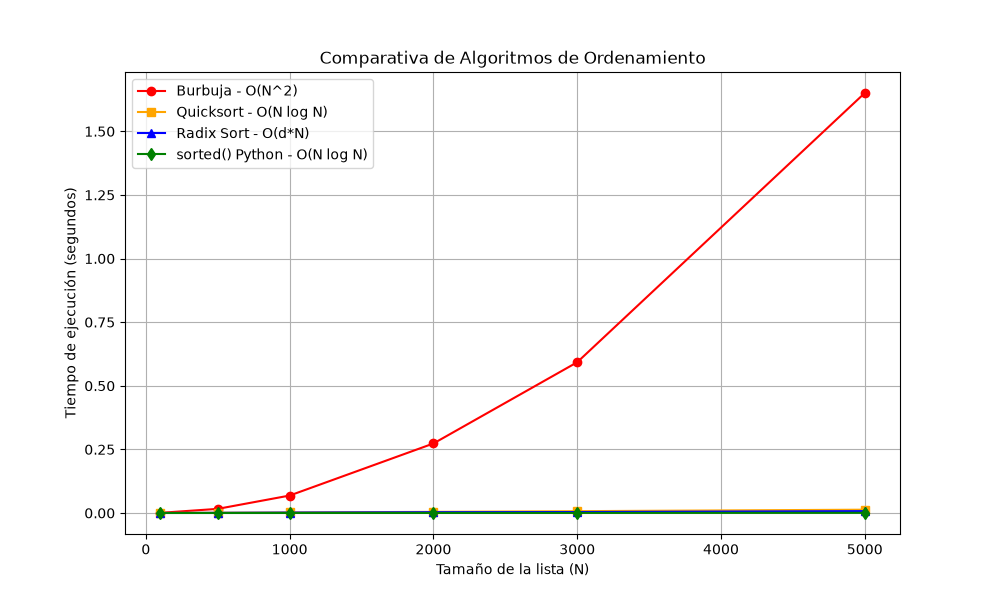
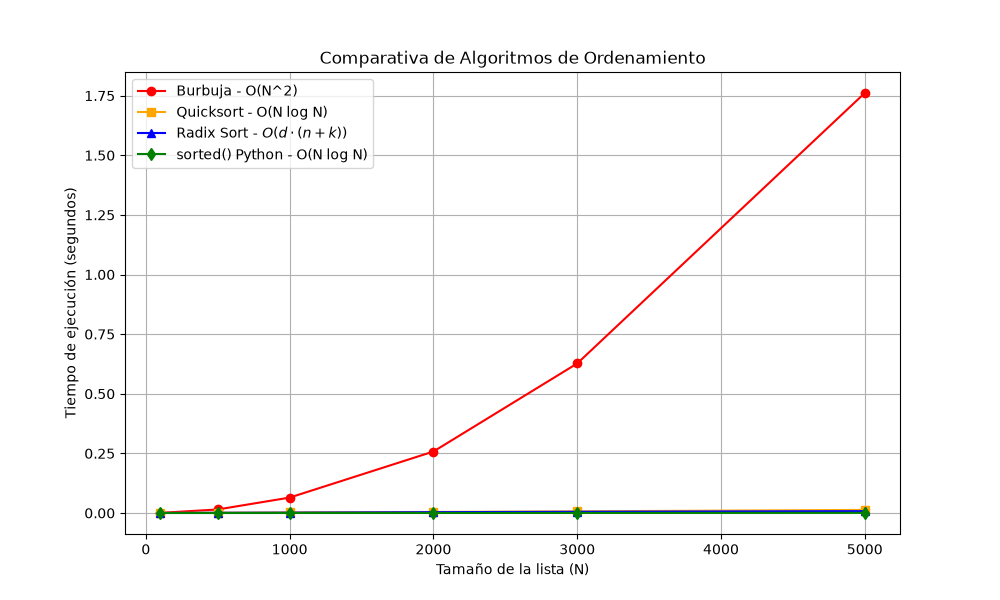
Arreglo etiqueta en el gráfico que describe la complejidad algorítmica del Rádix Sort

diff --git a/TrabajoPractico_1/proyecto_3/graficar_ordenamiento.py b/TrabajoPractico_1/proyecto_3/graficar_ordenamiento.py
@@ -50,7 +50,7 @@ def medir_tiempos():
     plt.figure(figsize=(10, 6))
     plt.plot(tamanos_N, tiempos_burbuja, label='Burbuja - O(N^2)', color='red', marker='o')
     plt.plot(tamanos_N, tiempos_quicksort, label='Quicksort - O(N log N)', color='orange', marker='s')
-    plt.plot(tamanos_N, tiempos_radix, label='Radix Sort - O(d*N)', color='blue', marker='^')
+    plt.plot(tamanos_N, tiempos_radix, label=r'Radix Sort - $O(d \cdot (n + k))$', color='blue', marker='^')
     plt.plot(tamanos_N, tiempos_python, label='sorted() Python - O(N log N)', color='green', marker='d')
 
     plt.title('Comparativa de Algoritmos de Ordenamiento')
